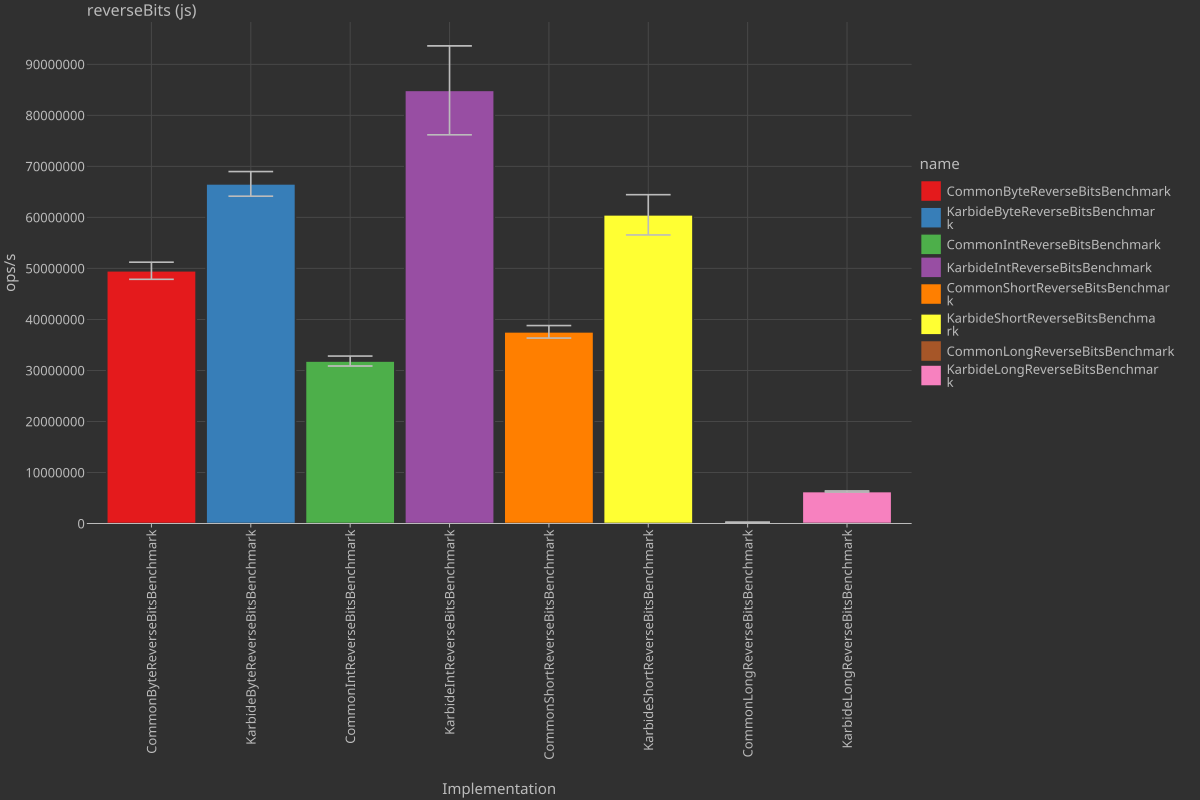
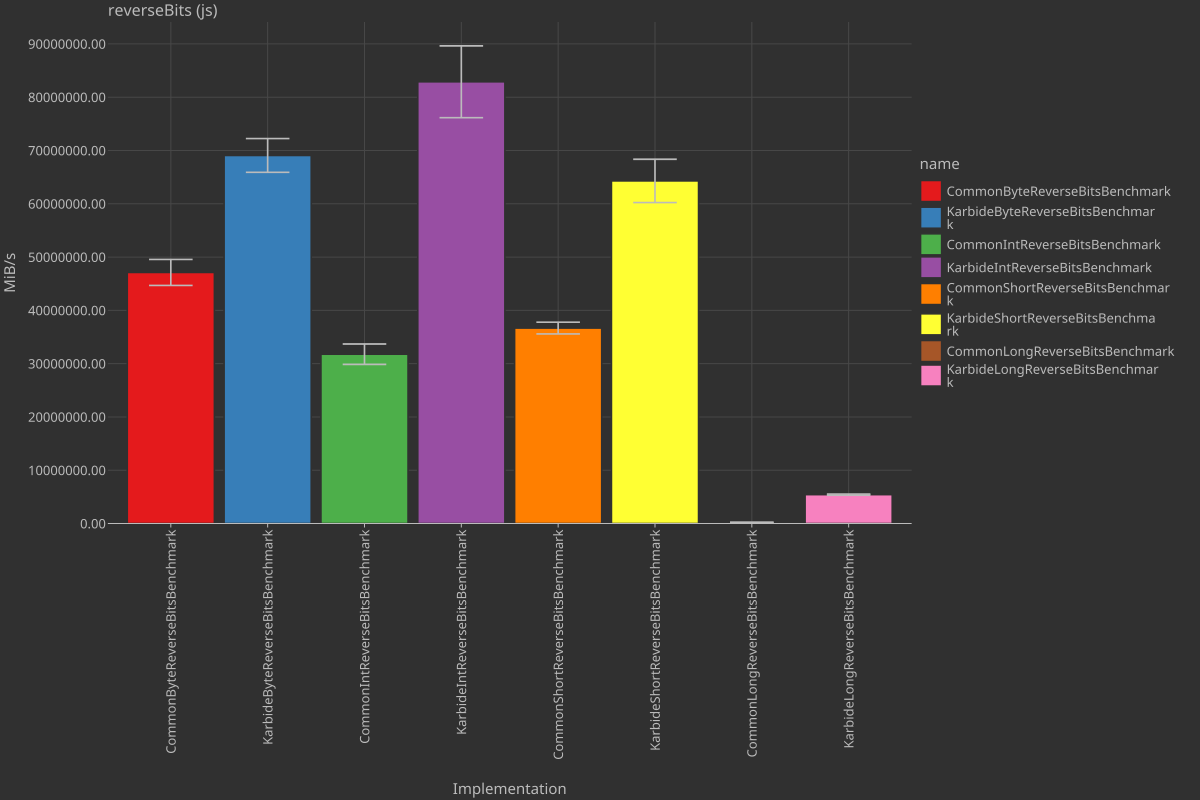
Fix JS intrinsics breaking with minification in production builds

diff --git a/karbide-core/src/jsMain/kotlin/dev/karmakrafts/karbide/BitUtils.kt b/karbide-core/src/jsMain/kotlin/dev/karmakrafts/karbide/BitUtils.kt
@@ -78,8 +78,11 @@ actual fun Int.reverseBits(count: Int): Int = reverseBitsImpl(this, count)
 @JsFun(
     """
 (x, count) => {
-    var lo = x.low_1 | 0;
-    var hi = x.high_1 | 0;
+    const names = Object.keys(x);
+    const loName = names[0];
+    const hiName = names[1];
+    var lo = x[loName] | 0;
+    var hi = x[hiName] | 0;
     count = count | 0;
     lo = ((lo >>> 1) & 0x55555555) | ((lo & 0x55555555) << 1);
     lo = ((lo >>> 2) & 0x33333333) | ((lo & 0x33333333) << 2);
@@ -91,11 +94,16 @@ actual fun Int.reverseBits(count: Int): Int = reverseBitsImpl(this, count)
     hi = ((hi >>> 4) & 0x0F0F0F0F) | ((hi & 0x0F0F0F0F) << 4);
     hi = ((hi >>> 8) & 0x00FF00FF) | ((hi & 0x00FF00FF) << 8);
     hi = (hi >>> 16) | (hi << 16);
+    const result = Object.create(Object.getPrototypeOf(x));
     if (count <= 32) {
-        return new x.constructor(((lo >>> (32 - count)) & ((count | -count) >> 31)) | 0, 0);
+        result[loName] = ((lo >>> (32 - count)) & ((count | -count) >> 31)) | 0;
+        result[hiName] = 0;
+        return result;
     }
     count = (64 - count) | 0;
-    return new x.constructor(((hi >>> count) | ((lo << (32 - count)) & ((count | -count) >> 31))) | 0, (lo >>> count) | 0);
+    result[loName] = ((hi >>> count) | ((lo << (32 - count)) & ((count | -count) >> 31))) | 0;
+    result[hiName] = (lo >>> count) | 0;
+    return result;
 }
 """
 )

diff --git a/karbide-core/src/jsMain/kotlin/dev/karmakrafts/karbide/ByteUtils.kt b/karbide-core/src/jsMain/kotlin/dev/karmakrafts/karbide/ByteUtils.kt
@@ -57,12 +57,15 @@ actual fun Int.reverseBytes(): Int = reverseBytesImpl(this)
 @JsFun(
     """
 (x) => {
-    const lo = x.low_1 | 0;
-    const hi = x.high_1 | 0;
-    return new x.constructor(
-        ((hi & 0xFF) << 24) | ((hi & 0xFF00) << 8) | ((hi >>> 8) & 0xFF00) | ((hi >>> 24) & 0xFF),
-        ((lo & 0xFF) << 24) | ((lo & 0xFF00) << 8) | ((lo >>> 8) & 0xFF00) | ((lo >>> 24) & 0xFF)
-    );
+    const names = Object.keys(x);
+    const loName = names[0];
+    const hiName = names[1];
+    const lo = x[loName] | 0;
+    const hi = x[hiName] | 0;
+    const result = Object.create(Object.getPrototypeOf(x));
+    result[loName] = ((hi & 0xFF) << 24) | ((hi & 0xFF00) << 8) | ((hi >>> 8) & 0xFF00) | ((hi >>> 24) & 0xFF);
+    result[hiName] = ((lo & 0xFF) << 24) | ((lo & 0xFF00) << 8) | ((lo >>> 8) & 0xFF00) | ((lo >>> 24) & 0xFF);
+    return result;
 }
 """
 )

diff --git a/CHANGELOG.md b/CHANGELOG.md
@@ -1,5 +1,9 @@
 ## [Unreleased]
 
+### Fixed
+
+- Intrinsics on Kotlin/JS breaking with minification enabled in production builds
+
 ## [1.10.2]
 
 ### Changed